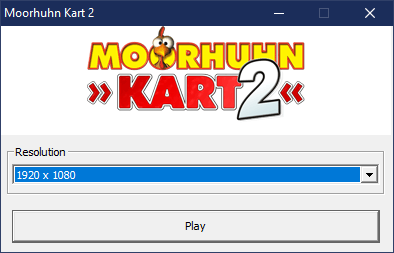
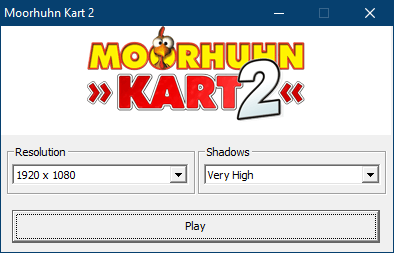
shadow settings, update readme

Changed region(s): [[0.0305, 0.581, 1.0, 0.7747], [0.0, 0.996, 1.0, 1.0], [0.0, 0.0, 1.0, 0.0277]]

diff --git a/MHK2.WidescreenFix/dllmain.cpp b/MHK2.WidescreenFix/dllmain.cpp
@@ -83,11 +83,9 @@ void WriteShadowsMode(eShadowsSettings mode)
 INT_PTR CALLBACK Launcher(HWND hDlg, UINT message, WPARAM wParam, LPARAM lParam)
 {
 	static const wchar_t* szShadowNames[SHADOWS_TOTAL_SETTINGS] = {
-		L"Low",
 		L"Normal",
 		L"High",
 		L"Very High",
-		L"Ultra"
 	};
 
 	switch (message)
@@ -99,8 +97,11 @@ INT_PTR CALLBACK Launcher(HWND hDlg, UINT message, WPARAM wParam, LPARAM lParam)
 		res = GetPrivateProfileIntA("Settings", "VideoMode", 0, ".\\mhk2.ini");
 		shadow = GetPrivateProfileIntA("Settings", "Shadows", SHADOWS_NORMAL, ".\\mhk2.ini");
 
-		if (res > resolutions.size())
+		if (res > resolutions.size() || res < 0)
 			res = 0;
+
+		if (shadow > SHADOWS_TOTAL_SETTINGS || shadow < 0)
+			shadow = 0;
 
 		list = GetDlgItem(hDlg, IDC_COMBO1);
 		SendMessage(list, CB_RESETCONTENT, 0, 0);

diff --git a/MHK2.WidescreenFix/mhk2.cpp b/MHK2.WidescreenFix/mhk2.cpp
@@ -48,16 +48,12 @@ int GetShadowSize(eShadowsSettings shadowType)
 {
 	switch (shadowType)
 	{
-	case SHADOWS_LOW:
-		return 64;
 	case SHADOWS_NORMAL:
 		return 128;
 	case SHADOWS_HIGH:
 		return 512;
 	case SHADOWS_VERY_HIGH:
 		return 2048;
-	case SHADOWS_ULTRA:
-		return 4096;
 	default:
 		break;
 	}

diff --git a/MHK2.WidescreenFix/mhk2.h b/MHK2.WidescreenFix/mhk2.h
@@ -4,11 +4,9 @@
 void Set2DScale();
 
 enum eShadowsSettings {
-	SHADOWS_LOW,
 	SHADOWS_NORMAL,
 	SHADOWS_HIGH,
 	SHADOWS_VERY_HIGH,
-	SHADOWS_ULTRA,
 	SHADOWS_TOTAL_SETTINGS
 };
 

diff --git a/README.md b/README.md
@@ -2,13 +2,18 @@
 
 Widescreen Fix for Moorhuhn Kart 2
 
-Fixes 2D scaling and adjusts camera. 
+Fixes 2D scaling and adjusts camera. Also allows to change shadow resolution.
+
 A new launcher is added to select any supported GPU resolution, last setting is saved to **mhk2.ini** in game folder.
 
-### Before
-![](https://raw.githubusercontent.com/ermaccer/MHK2.WidescreenFix/master/img/before.jpg)
-### After
+
+
+### Screenshots
+
 ![](https://raw.githubusercontent.com/ermaccer/MHK2.WidescreenFix/master/img/after.jpg)
+
+![](https://raw.githubusercontent.com/ermaccer/MHK2.WidescreenFix/master/img/widemp.jpg)
+
 
 
 ### Launcher
@@ -19,6 +24,3 @@ A new launcher is added to select any supported GPU resolution, last setting is 
 Download binary file from [Releases](https://github.com/ermaccer/MHK2.WidescreenFix/releases) page then extract it to main game folder.
 Alternatively, compile yourself and download https://github.com/ThirteenAG/Ultimate-ASI-Loader/releases
 to load the .asi file.
-
-# Building
-Built using Visual Studio 2017.
